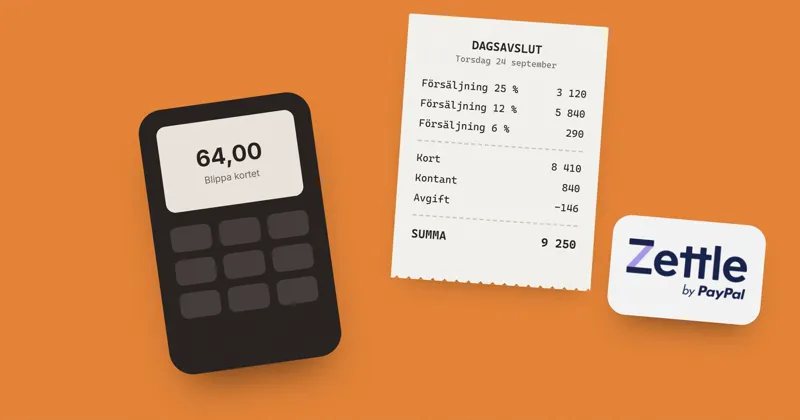
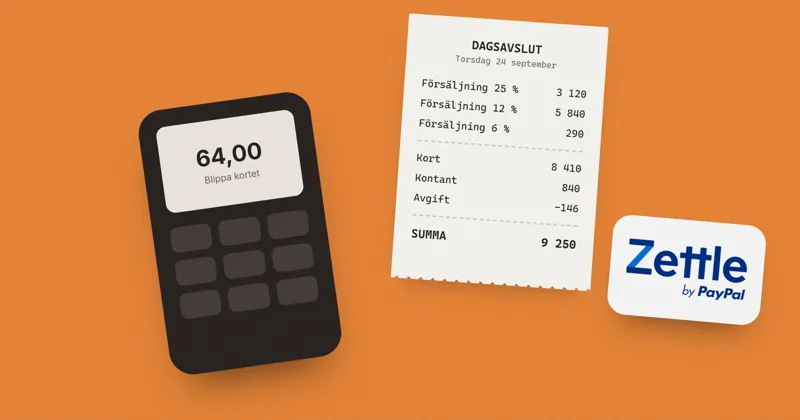
fix: blå Zettle-logga i nyhetsomslaget

Changed region(s): [[0.7812, 0.5571, 0.9375, 0.7119]]

diff --git a/scripts/blog-art/nyhet-zettle.html b/scripts/blog-art/nyhet-zettle.html
@@ -27,6 +27,6 @@
   <div class="l" style="font-weight:800;font-size:18px"><span>SUMMA</span><span>9 250</span></div>
 </div>
 <div class="abs reader"><div class="scr"><b>64,00</b><span>Blippa kortet</span></div><div class="keys"><i></i><i></i><i></i><i></i><i></i><i></i><i></i><i></i><i></i></div></div>
-<div class="abs" style="left:915px;top:330px;width:230px;height:150px;transform:rotate(5deg);background:#fff;border-radius:28px;display:flex;align-items:center;justify-content:center;box-shadow:0 30px 44px -24px rgba(0,0,0,0.45)"><img src="../../public/zettle-logo.png" style="width:180px;height:auto" alt=""></div>
+<div class="abs" style="left:915px;top:330px;width:230px;height:150px;transform:rotate(5deg);background:#fff;border-radius:28px;display:flex;align-items:center;justify-content:center;box-shadow:0 30px 44px -24px rgba(0,0,0,0.45)"><img src="../../public/zettle-blue.png" style="width:180px;height:auto" alt=""></div>
 <div class="grain"></div>
 </div></body></html>
